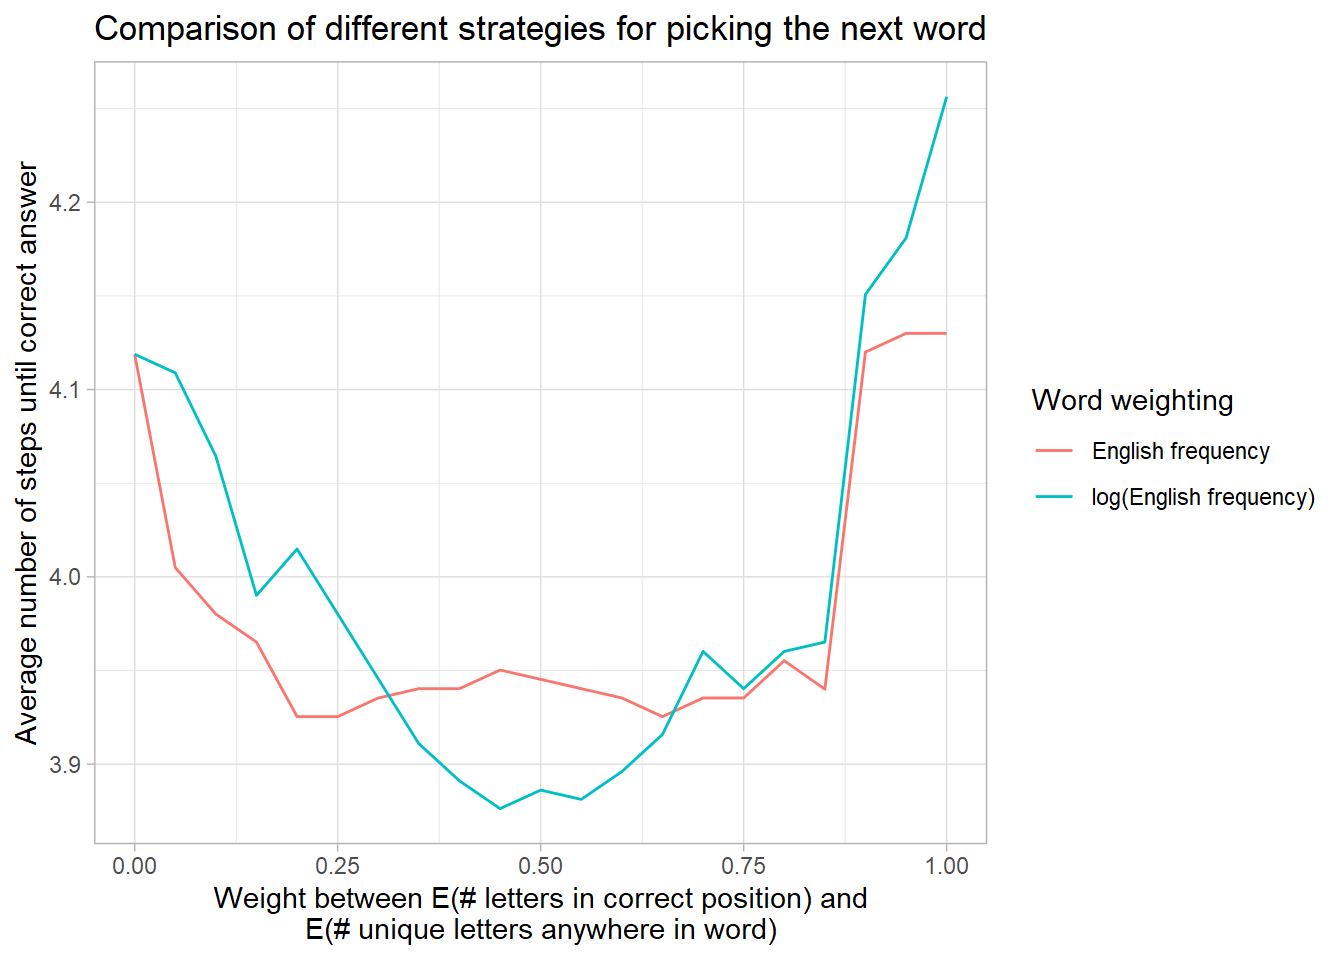
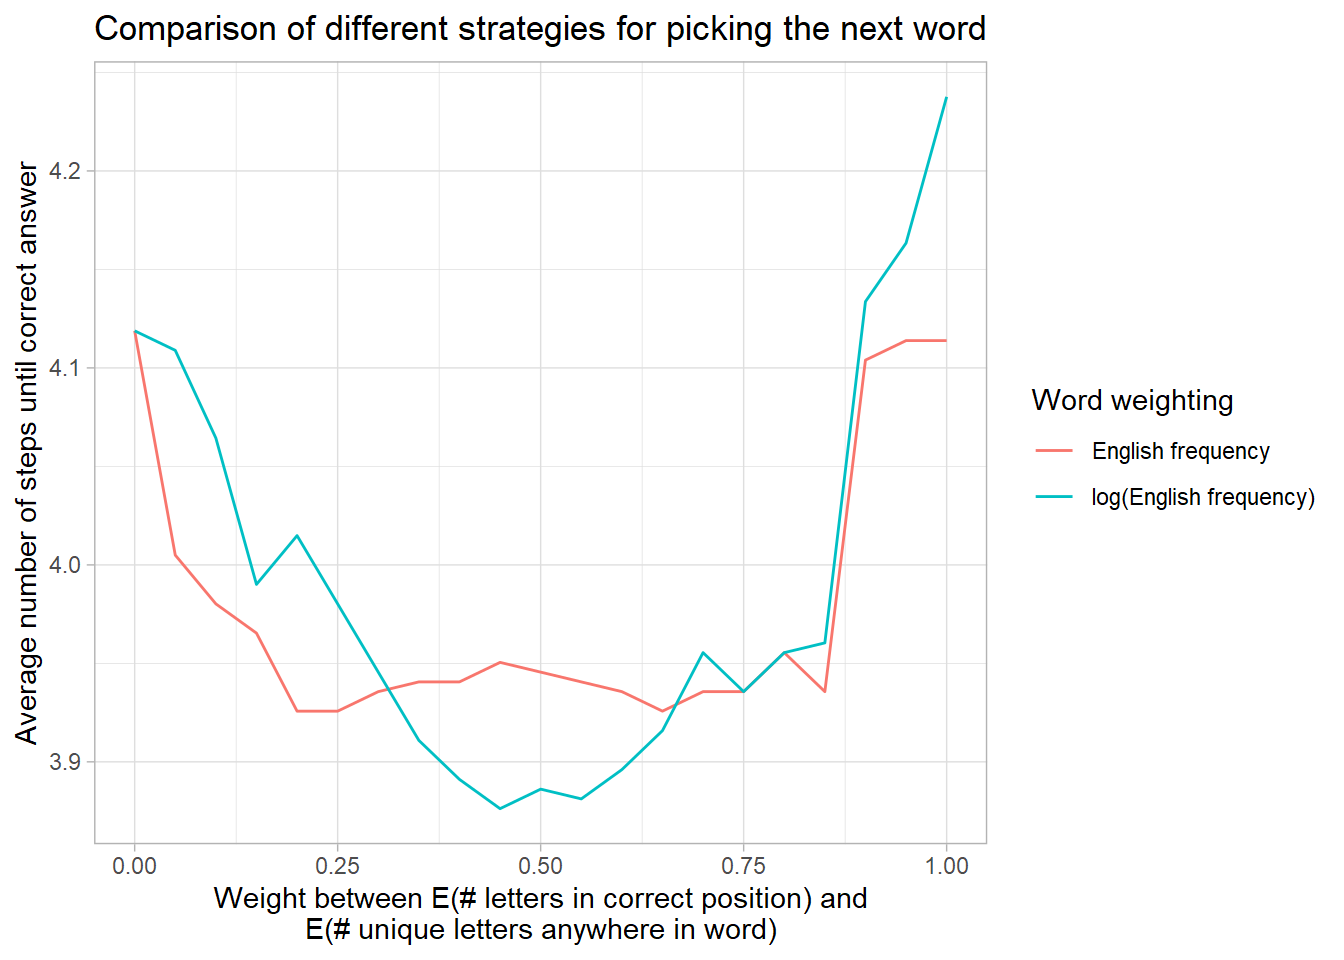
update to wordle v0.1.6

diff --git a/README.md b/README.md
@@ -253,28 +253,17 @@ So it suggests “tares” as a first word to try. Let’s play against a
 particular word and see how many steps it takes to get it:
 
 ``` r
-game_try = function(game, guess, silent = FALSE) {
-  # version of WordleGame$try() that can optionally run without output
-  if (silent) {
-    void = NULL
-    void_con = sink(textConnection("void", "w", local = TRUE))
-    on.exit(close(void_con))
-    on.exit(sink())
-  }
-  game$try(guess)
-}
-
-play_against = function(word, first_guess = NULL, silent = FALSE, ...) {
+play_against = function(word, first_guess = NULL, quiet = FALSE, ...) {
   helper = WordleHelper$new(nchar = nchar(word))
   game = WordleGame$new(helper$words, target_word = word)
   
   if (!is.null(first_guess)) {
-    helper$update(first_guess, game_try(game, first_guess, silent))
+    helper$update(first_guess, game$try(first_guess, quiet = quiet))
   }
   
   while (!game$is_solved()) {
     guess = score_words(helper, ...)$words[[1]]
-    helper$update(guess, game_try(game, guess, silent))
+    helper$update(guess, game$try(guess, quiet = quiet))
   }
   
   game$attempts
@@ -287,9 +276,9 @@ Let’s try it out:
 play_against("slump")
 ```
 
-    ## [38;5;232m[48;5;249m t [48;5;249m a [48;5;249m r [48;5;249m e [48;5;226m s [39m[49m 
-    ## [38;5;232m[48;5;46m s [48;5;249m o [48;5;249m i [48;5;226m l [48;5;249m y [39m[49m 
-    ## [38;5;232m[48;5;46m s [48;5;46m l [48;5;46m u [48;5;46m m [48;5;46m p [39m[49m
+    ## [38;5;232m[48;5;249m t [48;5;249m a [48;5;249m r [48;5;249m e [48;5;226m s [39m[49m 
+    ## [38;5;232m[48;5;46m s [48;5;249m o [48;5;249m i [48;5;226m l [48;5;249m y [39m[49m 
+    ## [38;5;232m[48;5;46m s [48;5;46m l [48;5;46m u [48;5;46m m [48;5;46m p [39m[49m
 
     ## [1] "tares" "soily" "slump"
 
@@ -321,7 +310,7 @@ strategy_steps =
           length(play_against(
             word, first_guess = first_guess, 
             weight = weight, freq_table = freq_table,
-            silent = TRUE
+            quiet = TRUE
           )),
           error = function(e) NA
         )
@@ -432,15 +421,15 @@ Let’s look at “hatch”:
 play_against("hatch")
 ```
 
-    ## [38;5;232m[48;5;226m t [48;5;46m a [48;5;249m r [48;5;249m e [48;5;249m s [39m[49m 
-    ## [38;5;232m[48;5;249m n [48;5;46m a [48;5;46m t [48;5;46m c [48;5;46m h [39m[49m 
-    ## [38;5;232m[48;5;249m w [48;5;46m a [48;5;46m t [48;5;46m c [48;5;46m h [39m[49m 
-    ## [38;5;232m[48;5;249m m [48;5;46m a [48;5;46m t [48;5;46m c [48;5;46m h [39m[49m 
-    ## [38;5;232m[48;5;249m p [48;5;46m a [48;5;46m t [48;5;46m c [48;5;46m h [39m[49m 
-    ## [38;5;232m[48;5;249m b [48;5;46m a [48;5;46m t [48;5;46m c [48;5;46m h [39m[49m 
-    ## [38;5;232m[48;5;249m l [48;5;46m a [48;5;46m t [48;5;46m c [48;5;46m h [39m[49m 
-    ## [38;5;232m[48;5;249m c [48;5;46m a [48;5;46m t [48;5;46m c [48;5;46m h [39m[49m 
-    ## [38;5;232m[48;5;46m h [48;5;46m a [48;5;46m t [48;5;46m c [48;5;46m h [39m[49m
+    ## [38;5;232m[48;5;226m t [48;5;46m a [48;5;249m r [48;5;249m e [48;5;249m s [39m[49m 
+    ## [38;5;232m[48;5;249m n [48;5;46m a [48;5;46m t [48;5;46m c [48;5;46m h [39m[49m 
+    ## [38;5;232m[48;5;249m w [48;5;46m a [48;5;46m t [48;5;46m c [48;5;46m h [39m[49m 
+    ## [38;5;232m[48;5;249m m [48;5;46m a [48;5;46m t [48;5;46m c [48;5;46m h [39m[49m 
+    ## [38;5;232m[48;5;249m p [48;5;46m a [48;5;46m t [48;5;46m c [48;5;46m h [39m[49m 
+    ## [38;5;232m[48;5;249m b [48;5;46m a [48;5;46m t [48;5;46m c [48;5;46m h [39m[49m 
+    ## [38;5;232m[48;5;249m l [48;5;46m a [48;5;46m t [48;5;46m c [48;5;46m h [39m[49m 
+    ## [38;5;232m[48;5;249m c [48;5;46m a [48;5;46m t [48;5;46m c [48;5;46m h [39m[49m 
+    ## [38;5;232m[48;5;46m h [48;5;46m a [48;5;46m t [48;5;46m c [48;5;46m h [39m[49m
 
     ## [1] "tares" "natch" "watch" "match" "patch" "batch" "latch" "catch" "hatch"
 
@@ -458,12 +447,12 @@ potential “atch” words in a single guess:
 play_against("hatch", explore_threshold = 1.01, guess_words = wordle_dict)
 ```
 
-    ## [38;5;232m[48;5;226m t [48;5;46m a [48;5;249m r [48;5;249m e [48;5;249m s [39m[49m 
-    ## [38;5;232m[48;5;249m n [48;5;46m a [48;5;46m t [48;5;46m c [48;5;46m h [39m[49m 
-    ## [38;5;232m[48;5;249m b [48;5;249m l [48;5;249m i [48;5;249m m [48;5;249m p [39m[49m 
-    ## [38;5;232m[48;5;249m w [48;5;46m a [48;5;46m t [48;5;46m c [48;5;46m h [39m[49m 
-    ## [38;5;232m[48;5;249m c [48;5;46m a [48;5;46m t [48;5;46m c [48;5;46m h [39m[49m 
-    ## [38;5;232m[48;5;46m h [48;5;46m a [48;5;46m t [48;5;46m c [48;5;46m h [39m[49m
+    ## [38;5;232m[48;5;226m t [48;5;46m a [48;5;249m r [48;5;249m e [48;5;249m s [39m[49m 
+    ## [38;5;232m[48;5;249m n [48;5;46m a [48;5;46m t [48;5;46m c [48;5;46m h [39m[49m 
+    ## [38;5;232m[48;5;249m b [48;5;249m l [48;5;249m i [48;5;249m m [48;5;249m p [39m[49m 
+    ## [38;5;232m[48;5;249m w [48;5;46m a [48;5;46m t [48;5;46m c [48;5;46m h [39m[49m 
+    ## [38;5;232m[48;5;249m c [48;5;46m a [48;5;46m t [48;5;46m c [48;5;46m h [39m[49m 
+    ## [38;5;232m[48;5;46m h [48;5;46m a [48;5;46m t [48;5;46m c [48;5;46m h [39m[49m
 
     ## [1] "tares" "natch" "blimp" "watch" "catch" "hatch"
 
@@ -483,7 +472,7 @@ explore_steps =
         length(play_against(
           word, first_guess = first_guess,
           explore_threshold = 1.01, guess_words = wordle_dict,
-          silent = TRUE
+          quiet = TRUE
         )),
         error = function(e) NA
       )
